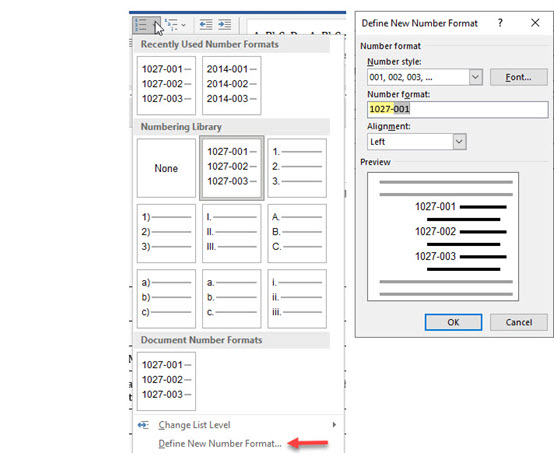
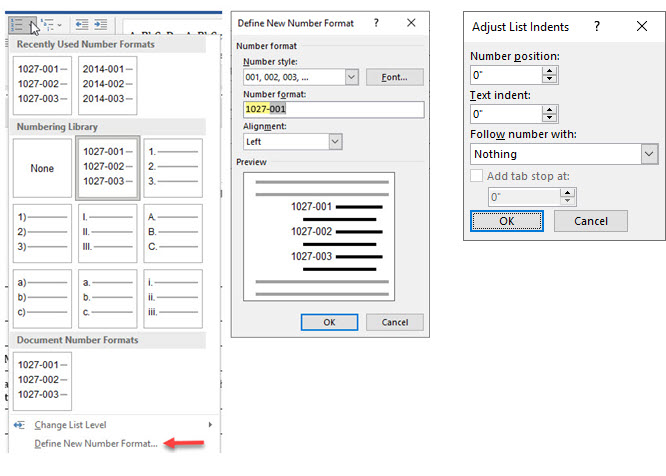
Updates.

Changed region(s): [[0.0, 0.0, 1.0, 0.9706], [0.9819, 0.5, 1.0, 0.5294], [0.9819, 0.1471, 1.0, 0.1765]]

diff --git a/digital-archive/docs/archivist/accessioning.md b/digital-archive/docs/archivist/accessioning.md
@@ -660,9 +660,24 @@ You can also add notes in the form of paragraphs above and/or below the table as
 
 ##### Auto-numbering index table rows
 When creating a long index, you can save time by having Microsoft Word automatically number the index
-rows for you. To do this, remove all but the first row from the template, select the ID Number cell in that row, and
-then define a numbering format as shown below. The format will be applied when you add new rows,
-saving you from having to type the number each time.
+rows for you. Here are the steps to set up auto-numbering.
+
+-   Remove all but the first row from the template.
+-   Click in the `ID Number` cell of the first and only row.
+-   On the **_Home_** tab expand the **_Numbering_** dropdown (see left screenshot below).
+-   At the bottom of the dropdown, click **_Define New Number Format..._** (red arrow in screenshot).
+-   On the **_Define New Number Format_** panel (see right screenshot below):
+    -   Choose `001, 002, 003, ...` for the **_Number style_**.
+    -   Edit **_Number format_** to use the accession number as a prefix e.g. `1027-` or `2026_03-`.
+    -   Remove the period at the end of the **_Number format_**.
+    -   Click the OK button.
+-   A formatted number will appear in the cell.
+-   Right-click in the cell and choose **_Adjust List Indents..._** from the menu.
+-   Set **_Number position_** and **_Text indent_** to `0` and choose `Nothing` for **_Follow number with_**.
+
+When you add a new row, the `ID Number` cell will get filled-in automatically with the next number.
+
+The screenshots below show the dialogs and fields mentioned in the steps above.
 
 ![image](accessioning-26.jpg)
 
@@ -906,11 +921,15 @@ contact sheets from a folder of files. Documentation will be added here in the f
 
 ![image](accessioning-11.jpg)
 
-#### Known bugs
+#### Known issues
 Here are problems that occasionally occur with the generated PDF file.
 
-1.  An image sometimes appears with a black background. This occurs only with some, but not all images that are contained in a PDF that have transparency such as a PNG image.
-1.  The image for a TIF file sometimes appears so faded as to be almost white. A solution is to duplicate the images using [Irfanview](#irfanview) to create new TIF files that don't have this problem. Do this by converting from TIF to TIF without resizing.
+1.  An image sometimes appears with a black background. This occurs only with some, but not all images that are contained in a PDF that have transparency such as a PNG image. There is no known workaround.
+1.  The image for a TIFF file will be white or almost white. This occurs if the scan was done using 16-bit Grayscale instead of the
+recommended 8-bit Grayscale. You can fix the file without rescanning it in one of these two ways:
+    -   Open the file in [Irfanview](#irfanview) and then save it as a new TIFF file. This will change the the file to use
+        8 bits per pixel instead of 16 bits per pixel.
+    -   Open the file in Photoshop, change the Image > Mode to be 8 Bits/Channel instead of 16 Bits/Channel, and save the file.
 
 ### AvantS3
 AvantS3 is the [plugin](/plugins/avants3) that allows Amazon AWS S3 to be integrated with the Digital Archive.
@@ -978,6 +997,34 @@ Irfanview can do the following on individual files or on a batch of files:
 -   Many, many other features
 
 As of November 2022, the current version of the 64-bit version for Windows was 4.60.
+
+
+#### Resize an image to make it smaller
+Follow the steps below to make an image smaller.
+
+-   Open the file in IrfanView
+-   Choose **_Image > Resize/Resample_** from the menu
+-   Choose the **_Set new size_** radio button
+-   Enter a **_Width_** or a **_Height_** but not both
+-   Click the OK button
+-   Choose **_File > Save (original folder)_** from the menu (or use Ctrl+S)
+-   To also convert the image to JPEG:
+    -   Select `JPG` from the **_Save as type_** dropdown
+-   Click the **_Save_** button
+
+![image](accessioning-10.jpg)
+
+When creating a JPEG file to use as a Digital Archive item attachment, use `1200` for the width when the image
+is wide or use `1200` for the height when the image is tall.
+
+#### Convert TIFF to JPEG
+Follow the steps below to convert a TIFF image to JPEG without resizing the image.
+To also resize the image, follow the resize steps in the previous section.
+
+-   Open the file in IrfanView
+-   Choose **_File > Save (original folder)_** from the menu (or use Ctrl+S)
+-   Select `JPG` from the **_Save as type_** dropdown
+-   Click the **_Save_** button
 
 ### Zoomify
 Used to create tiles for [zoomable images](/administrator/zoomable-images/#zoomable-images) in the Digital Archive.

diff --git a/digital-archive/docs/archivist/scanning.md b/digital-archive/docs/archivist/scanning.md
@@ -26,8 +26,12 @@ of the differences between scans made at different resolutions.
     page that had been written or doodled on using a colored pen, or if the page contained a color image.
     A resolution of 300 ppi is also fine for OCR (optical character recognition) purposes.
 -   An image scanned as 24-bit color, will produce a file that is 3 times the size as the same image scanned as 8-bit Grayscale.
-    That's because 24 bits is 3 times as many bits as 8 bits. Similarly, the file for an image scanned as 16-bit Grayscale
-    will be 2/3 the size of the file for the same image scanned as 24-bit color.
+    That's because 24 bits is 3 times as many bits as 8 bits.
+
+!!! Note ""
+    When using Grayscale, choose 8-bit, not 16-bit. A 16-bit scan will produce a file that is twice the size
+    as when using 8-bit with no perceivable difference in quality. The only time to use 16-bit is if you plan
+    to perform heavy post-processing of the image using a program like Photoshop.
 
 
 ## Typical scanner settings

diff --git a/digital-archive/docs/archivist/creating-pdfs.md b/digital-archive/docs/archivist/creating-pdfs.md
@@ -43,7 +43,7 @@ you'd need to use a larger suitcase.
 The exception to the TIFF rule is when the materials you are scanning do not need to be preserved with the highest quality possible.
 Examples are type-written or typeset text where the words, not an image of the words, is what's most important. For letters,
 books, and other textual material, you can scan the pages directly to a single PDF which is much faster than scanning to
-individual TIFF files and then combining them into a PDF. Furthermore, you can scan at 300 PPI, possibly using grayscale instead
+individual TIFF files and then combining them into a PDF. Furthermore, you can scan at 300 PPI, possibly using 8-bit grayscale instead
 of color, to produce smaller files.
 
 If you opt to create a PDF file directly from the scanner, you can still create an [optimized copy of the PDF](#create-an-optimized-copy-of-the-pdf)
